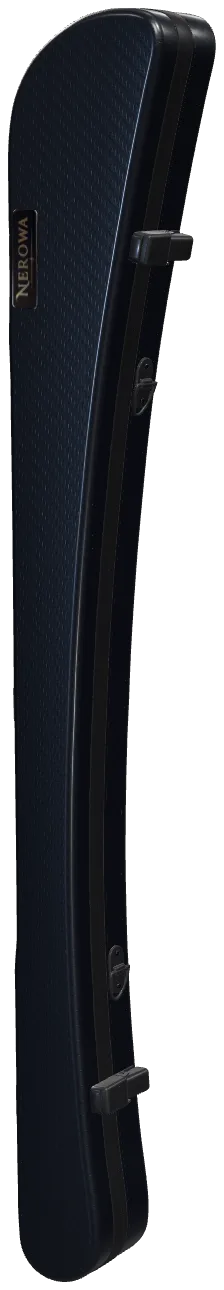
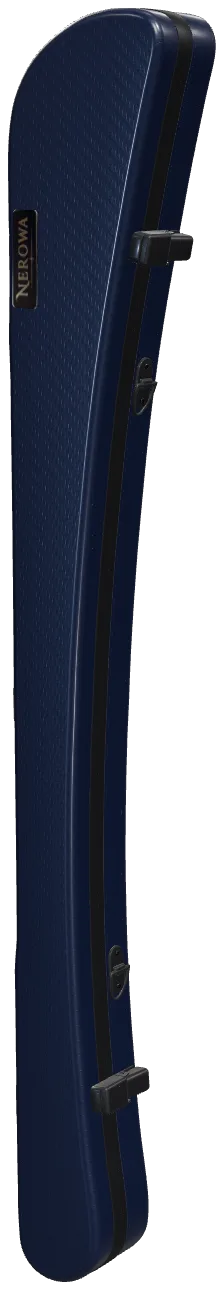
Preguntas que abren siempre, plano limpio y ajustes de texto
La cabecera fija ocupaba ~350 px con el panel de Shop cerrado y se
comia los toques de esa franja: por eso las preguntas fallaban a
veces en el telefono. Las preguntas se pintan de un color de case al
azar con letra legible y la respuesta va a la derecha. El plano de
medidas sale de una vista desde arriba de la cascara real, con
bisagras y cierres. Fuera el logo gigante del pie, "Ships from
Europe", Closed/Open sobre las miniaturas y Midnight Blue calculado.

Claude-Session: https://claude.ai/code/session_01R2JTJbHUrTq7cbAzGjEyWX

diff --git a/src/lib/store/case-outline.ts b/src/lib/store/case-outline.ts
@@ -8,13 +8,16 @@
 
 export const CASE_OUTLINE = {
   /* Caja del dibujo: x de punta a punta, y de borde a borde. */
-  minX: -406.5,
-  maxX: 406.5,
+  minX: -406.3,
+  maxX: 406.4,
   minY: -56.9,
   maxY: 56.9,
-  path: "M404.5 -0.5L400.4 -9.8L396.4 -15.7L392.3 -24.3L388.2 -29.6L384.2 -32.1L380.1 -36.8L376 -41.1L372 -43L367.9 -46.5L363.9 -48.1L359.8 -49.5L355.7 -52L351.7 -52.9L347.6 -53.6L343.5 -54.2L339.5 -54.7L335.4 -55.6L331.3 -56L327.3 -56.2L323.2 -56.3L319.1 -56.4L315.1 -56.4L311 -56.5L306.9 -56.5L302.9 -56.5L298.8 -56.5L294.7 -56.4L290.7 -56.4L286.6 -56.4L282.5 -56.3L278.5 -56.2L274.4 -55.9L270.3 -55.8L266.3 -55.8L262.2 -55.8L258.2 -55.8L254.1 -55.9L250 -56L246 -56L241.9 -56.2L237.8 -56.2L233.8 -56.3L229.7 -56.4L225.6 -56.4L221.6 -56.6L217.5 -56.8L213.4 -56.9L209.4 -56.8L205.3 -56.7L201.2 -56.4L197.2 -56.3L193.1 -56.2L189 -56.1L185 -56L180.9 -55.9L176.8 -55.9L172.8 -55.9L168.7 -55.9L164.6 -55.9L160.6 -55.9L156.5 -55.8L152.5 -55.8L148.4 -55.8L144.3 -55.8L140.3 -55.7L136.2 -55.7L132.1 -55.7L128.1 -55.6L124 -55.6L119.9 -55.6L115.9 -55.5L111.8 -55.5L107.7 -55.5L103.7 -55.5L99.6 -55.5L95.5 -55.5L91.5 -55.4L87.4 -55.4L83.3 -55.4L79.3 -55.4L75.2 -55.4L71.1 -55.4L67.1 -55.3L63 -55.3L58.9 -55.3L54.9 -55.3L50.8 -55.3L46.8 -55.3L42.7 -55.3L38.6 -55.3L34.6 -55.3L30.5 -55.3L26.4 -55.3L22.4 -55.3L18.3 -55.3L14.2 -55.3L10.2 -55.3L6.1 -55.3L2 -55.3L-2 -55.3L-6.1 -55.3L-10.2 -55.3L-14.2 -55.3L-18.3 -55.2L-22.4 -55.2L-26.4 -55.1L-30.5 -55L-34.6 -54.9L-38.6 -54.9L-42.7 -54.9L-46.8 -54.9L-50.8 -54.9L-54.9 -54.8L-58.9 -54.8L-63 -54.8L-67.1 -54.8L-71.1 -54.8L-75.2 -54.8L-79.3 -54.8L-83.3 -54.8L-87.4 -54.7L-91.5 -54.7L-95.5 -54.7L-99.6 -54.7L-103.7 -54.6L-107.7 -54.6L-111.8 -54.6L-115.9 -54.6L-119.9 -54.6L-124 -54.6L-128.1 -54.6L-132.1 -54.6L-136.2 -54.6L-140.3 -54.6L-144.3 -54.5L-148.4 -54.5L-152.5 -54.5L-156.5 -54.5L-160.6 -54.5L-164.6 -54.5L-168.7 -54.5L-172.8 -54.5L-176.8 -54.9L-180.9 -55.2L-185 -55.6L-189 -55.9L-193.1 -56.2L-197.2 -56.3L-201.2 -56.3L-205.3 -56.3L-209.4 -56.3L-213.4 -56.2L-217.5 -56.2L-221.6 -56.2L-225.6 -56.1L-229.7 -56.1L-233.8 -56.1L-237.8 -56.1L-241.9 -56.1L-246 -56.1L-250 -56.1L-254.1 -56.1L-258.2 -56L-262.2 -56L-266.3 -56L-270.3 -55.9L-274.4 -55.9L-278.5 -55.8L-282.5 -55.8L-286.6 -55.8L-290.7 -55.8L-294.7 -55.8L-298.8 -55.8L-302.9 -55.8L-306.9 -55.7L-311 -55.7L-315.1 -55.7L-319.1 -55.7L-323.2 -55.7L-327.3 -55.6L-331.3 -55.6L-335.4 -55.5L-339.5 -55.4L-343.5 -55.4L-347.6 -55.3L-351.7 -55.3L-355.7 -55.4L-359.8 -55.3L-363.9 -55.3L-367.9 -55.1L-372 -54.7L-376 -54.5L-380.1 -54.3L-384.2 -54L-388.2 -52.5L-392.3 -51.1L-396.4 -49.4L-400.4 -44.9L-404.5 -39.4L-404.5 -10.3L-400.4 -4.6L-396.4 0.6L-392.3 2.9L-388.2 6.8L-384.2 8.4L-380.1 10.2L-376 10.7L-372 11L-367.9 11.2L-363.9 11.2L-359.8 10.9L-355.7 10.6L-351.7 10.2L-347.6 9.8L-343.5 9.3L-339.5 8.4L-335.4 7.9L-331.3 7.4L-327.3 6.8L-323.2 5.7L-319.1 5.2L-315.1 4.8L-311 4.3L-306.9 3.9L-302.9 3.1L-298.8 2.8L-294.7 2.4L-290.7 2L-286.6 1.3L-282.5 0.9L-278.5 0.6L-274.4 0.4L-270.3 0.1L-266.3 -0.4L-262.2 -0.7L-258.2 -1L-254.1 -1.3L-250 -2L-246 -2.3L-241.9 -2.6L-237.8 -2.9L-233.8 -3.1L-229.7 -3.6L-225.6 -3.8L-221.6 -4.1L-217.5 -4.3L-213.4 -4.5L-209.4 -4.9L-205.3 -5L-201.2 -5.2L-197.2 -5.4L-193.1 -5.8L-189 -6L-185 -6.1L-180.9 -6.3L-176.8 -6.4L-172.8 -6.7L-168.7 -6.8L-164.6 -6.9L-160.6 -7L-156.5 -7.1L-152.5 -7.2L-148.4 -7.3L-144.3 -7.4L-140.3 -7.5L-136.2 -7.6L-132.1 -7.6L-128.1 -7.7L-124 -7.7L-119.9 -7.7L-115.9 -7.7L-111.8 -7.7L-107.7 -7.6L-103.7 -7.6L-99.6 -7.6L-95.5 -7.6L-91.5 -7.5L-87.4 -7.5L-83.3 -7.3L-79.3 -7.3L-75.2 -7.2L-71.1 -7.1L-67.1 -7.1L-63 -6.9L-58.9 -6.7L-54.9 -6.7L-50.8 -6.5L-46.8 -6.4L-42.7 -6.1L-38.6 -6L-34.6 -5.8L-30.5 -5.6L-26.4 -5.3L-22.4 -5.1L-18.3 -5L-14.2 -4.8L-10.2 -4.7L-6.1 -4.4L-2 -4.2L2 -4.1L6.1 -3.9L10.2 -3.7L14.2 -3.3L18.3 -3.1L22.4 -2.9L26.4 -2.7L30.5 -2.2L34.6 -2L38.6 -1.7L42.7 -1.5L46.8 -1.2L50.8 -0.7L54.9 -0.4L58.9 -0.1L63 0.1L67.1 0.4L71.1 1L75.2 1.3L79.3 1.6L83.3 1.9L87.4 2.6L91.5 3L95.5 3.3L99.6 3.7L103.7 4.1L107.7 4.8L111.8 5.1L115.9 5.5L119.9 5.9L124 6.6L128.1 7L132.1 7.4L136.2 7.7L140.3 8.1L144.3 8.9L148.4 9.3L152.5 9.7L156.5 10.2L160.6 11.1L164.6 11.6L168.7 12L172.8 12.5L176.8 13L180.9 14L185 14.5L189 15L193.1 15.5L197.2 16.6L201.2 17.1L205.3 17.7L209.4 18.3L213.4 19.5L217.5 20.1L221.6 20.7L225.6 21.3L229.7 21.9L233.8 23.2L237.8 23.9L241.9 24.5L246 25.2L250 26.6L254.1 27.2L258.2 27.9L262.2 28.6L266.3 29.9L270.3 30.6L274.4 31.3L278.5 32L282.5 33.4L286.6 34.1L290.7 34.8L294.7 35.5L298.8 36.9L302.9 37.6L306.9 38.4L311 39.1L315.1 40.6L319.1 41.4L323.2 42.1L327.3 42.9L331.3 43.6L335.4 45.2L339.5 46L343.5 46.8L347.6 47.6L351.7 49.2L355.7 50L359.8 50.9L363.9 52.6L367.9 53.5L372 54.4L376 55.3L380.1 56.6L384.2 56.9L388.2 56.7L392.3 56.1L396.4 55L400.4 51.2L404.5 45.6Z",
+  path: "M-406.3 -29.9L-405.8 -33.1L-404.8 -36.6L-403.8 -39.1L-402.1 -42.4L-400.8 -43.9L-400.1 -45.1L-397.3 -47.9L-397.1 -47.9L-395.1 -49.6L-394.3 -49.9L-392.6 -51.1L-391.6 -51.6L-391.1 -51.6L-389.3 -52.6L-388.6 -52.6L-387.6 -53.1L-386.8 -53.1L-386.6 -53.4L-385.8 -53.4L-385.6 -53.6L-384.6 -53.6L-384.3 -53.9L-383.1 -53.9L-382.8 -54.1L-380.3 -54.1L-380.1 -54.4L-376.6 -54.4L-376.3 -54.6L-372.8 -54.6L-372.6 -54.9L-369.1 -54.9L-368.8 -55.1L-364.1 -55.1L-363.8 -55.4L-337.1 -55.4L-336.8 -55.6L-308.6 -55.6L-308.3 -55.9L-264.1 -55.9L-263.8 -56.1L-213.8 -56.1L-213.6 -56.4L-193.8 -56.4L-193.6 -56.1L-189.6 -56.1L-189.3 -55.9L-186.8 -55.9L-186.6 -55.6L-184.3 -55.6L-184.1 -55.4L-182.1 -55.4L-181.8 -55.1L-179.6 -55.1L-179.3 -54.9L-176.3 -54.9L-176.1 -54.6L-165.8 -54.6L-165.3 -54.4L-165.1 -54.6L-89.6 -54.6L-89.3 -54.9L-31.1 -54.9L-30.8 -55.1L-18.1 -55.1L-17.8 -55.4L101.7 -55.4L101.9 -55.6L139.2 -55.6L139.4 -55.9L183.9 -55.9L184.2 -56.1L195.7 -56.1L195.9 -56.4L202.4 -56.4L202.7 -56.6L207.7 -56.6L207.9 -56.9L217.7 -56.9L217.9 -56.6L224.9 -56.6L225.2 -56.4L237.2 -56.4L237.4 -56.1L249.2 -56.1L249.4 -55.9L274.4 -55.9L274.7 -56.1L280.2 -56.1L280.4 -56.4L325.7 -56.4L325.9 -56.1L330.2 -56.1L330.4 -55.9L332.7 -55.9L332.9 -55.6L334.9 -55.6L335.2 -55.4L337.2 -55.4L337.4 -55.1L340.7 -54.9L340.9 -54.6L342.2 -54.6L342.4 -54.4L343.7 -54.4L343.9 -54.1L345.2 -54.1L345.4 -53.9L346.4 -53.9L346.7 -53.6L348.9 -53.4L349.2 -53.1L350.9 -52.9L351.9 -52.4L352.7 -52.4L352.9 -52.1L353.4 -52.1L353.7 -51.9L354.2 -51.9L354.4 -51.6L355.7 -51.4L356.4 -50.9L356.9 -50.9L358.9 -49.9L359.4 -49.9L366.4 -46.4L366.9 -45.9L367.7 -45.6L368.2 -45.1L370.2 -44.1L370.7 -43.6L370.9 -43.6L371.4 -43.1L372.4 -42.6L373.2 -41.9L374.2 -41.4L376.2 -39.6L376.4 -39.6L380.7 -35.6L380.9 -35.6L383.2 -33.4L383.4 -32.9L386.9 -29.1L390.7 -24.1L394.7 -17.9L398.9 -9.9L401.7 -3.6L403.4 1.6L404.4 5.6L405.2 9.6L406.2 16.1L406.4 18.9L406.4 30.1L405.9 36.9L405.4 39.9L404.7 42.9L403.7 45.9L402.2 48.9L400.9 50.6L398.9 52.6L398.7 52.6L397.7 53.6L396.9 53.9L396.4 54.4L394.4 55.4L393.9 55.4L393.7 55.6L393.2 55.6L392.2 56.1L391.4 56.1L391.2 56.4L390.2 56.4L389.9 56.6L387.9 56.6L387.7 56.9L384.4 56.9L384.2 56.6L381.7 56.6L381.4 56.4L380.4 56.4L380.2 56.1L378.9 56.1L378.7 55.9L377.9 55.9L377.7 55.6L376.7 55.6L376.4 55.4L375.7 55.4L375.4 55.1L374.7 55.1L374.4 54.9L372.7 54.6L371.7 54.1L369.9 53.9L368.9 53.4L368.2 53.4L367.2 52.9L366.4 52.9L365.4 52.4L363.7 52.1L362.7 51.6L361.9 51.6L361.7 51.4L359.9 51.1L358.9 50.6L358.2 50.6L357.9 50.4L357.2 50.4L356.9 50.1L356.2 50.1L355.9 49.9L355.2 49.9L354.9 49.6L354.2 49.6L353.9 49.4L353.2 49.4L352.9 49.1L352.2 49.1L351.9 48.9L351.2 48.9L350.9 48.6L350.2 48.6L349.9 48.4L349.2 48.4L348.9 48.1L348.2 48.1L347.9 47.9L347.2 47.9L346.9 47.6L346.2 47.6L345.9 47.4L344.9 47.4L344.7 47.1L343.9 47.1L343.7 46.9L342.9 46.9L342.7 46.6L341.9 46.6L341.7 46.4L340.9 46.4L340.7 46.1L339.9 46.1L339.7 45.9L338.9 45.9L338.7 45.6L337.9 45.6L337.7 45.4L336.9 45.4L336.7 45.1L335.9 45.1L335.7 44.9L334.9 44.9L334.7 44.6L333.9 44.6L333.7 44.4L332.9 44.4L332.7 44.1L331.7 44.1L331.4 43.9L330.7 43.9L330.4 43.6L329.7 43.6L329.4 43.4L328.7 43.4L328.4 43.1L327.7 43.1L327.4 42.9L326.7 42.9L326.4 42.6L325.4 42.6L325.2 42.4L324.4 42.4L324.2 42.1L323.4 42.1L323.2 41.9L322.2 41.9L321.9 41.6L321.2 41.6L320.9 41.4L320.2 41.4L319.9 41.1L318.9 41.1L318.7 40.9L317.9 40.9L317.7 40.6L316.9 40.6L316.7 40.4L315.7 40.4L315.4 40.1L314.7 40.1L314.4 39.9L313.7 39.9L313.4 39.6L312.4 39.6L312.2 39.4L311.4 39.4L311.2 39.1L310.4 39.1L310.2 38.9L309.2 38.9L308.9 38.6L308.2 38.6L307.9 38.4L306.9 38.4L306.7 38.1L305.9 38.1L305.7 37.9L304.7 37.9L304.4 37.6L303.7 37.6L303.4 37.4L301.2 37.1L300.9 36.9L300.2 36.9L299.9 36.6L298.9 36.6L298.7 36.4L296.4 36.1L296.2 35.9L295.4 35.9L295.2 35.6L292.9 35.4L292.7 35.1L291.9 35.1L291.7 34.9L289.4 34.6L289.2 34.4L288.4 34.4L288.2 34.1L285.9 33.9L285.7 33.6L284.9 33.6L284.7 33.4L283.7 33.4L283.4 33.1L282.7 33.1L282.4 32.9L281.4 32.9L281.2 32.6L280.4 32.6L280.2 32.4L277.9 32.1L277.7 31.9L276.9 31.9L276.7 31.6L275.7 31.6L275.4 31.4L274.7 31.4L274.4 31.1L273.4 31.1L273.2 30.9L272.2 30.9L271.9 30.6L269.7 30.4L269.4 30.1L268.7 30.1L268.4 29.9L267.4 29.9L267.2 29.6L266.2 29.6L265.9 29.4L264.9 29.4L264.7 29.1L263.7 29.1L263.4 28.9L262.4 28.9L262.2 28.6L261.2 28.6L260.9 28.4L259.9 28.4L259.7 28.1L257.4 27.9L257.2 27.6L256.4 27.6L256.2 27.4L255.2 27.4L254.9 27.1L253.9 27.1L253.7 26.9L252.7 26.9L252.4 26.6L250.2 26.4L249.9 26.1L249.2 26.1L248.9 25.9L247.9 25.9L247.7 25.6L246.7 25.6L246.4 25.4L245.4 25.4L245.2 25.1L242.9 24.9L242.7 24.6L241.9 24.6L241.7 24.4L240.7 24.4L240.4 24.1L239.4 24.1L239.2 23.9L238.2 23.9L237.9 23.6L236.9 23.6L236.7 23.4L235.7 23.4L235.4 23.1L234.4 23.1L234.2 22.9L233.2 22.9L232.9 22.6L231.9 22.6L231.7 22.4L230.4 22.4L230.2 22.1L229.2 22.1L228.9 21.9L227.9 21.9L227.7 21.6L226.7 21.6L226.4 21.4L225.2 21.4L224.9 21.1L223.9 21.1L223.7 20.9L222.7 20.9L222.4 20.6L221.2 20.6L220.9 20.4L219.9 20.4L219.7 20.1L218.4 20.1L218.2 19.9L217.2 19.9L216.9 19.6L215.7 19.6L215.4 19.4L214.4 19.4L214.2 19.1L212.9 19.1L212.7 18.9L211.7 18.9L211.4 18.6L210.2 18.6L209.9 18.4L208.9 18.4L208.7 18.1L205.9 17.9L205.7 17.6L204.7 17.6L204.4 17.4L203.2 17.4L202.9 17.1L201.7 17.1L201.4 16.9L200.2 16.9L199.9 16.6L198.7 16.6L198.4 16.4L197.2 16.4L196.9 16.1L195.7 16.1L195.4 15.9L193.9 15.9L193.7 15.6L192.4 15.6L192.2 15.4L190.9 15.4L190.7 15.1L189.2 15.1L188.9 14.9L187.7 14.9L187.4 14.6L185.9 14.6L185.7 14.4L184.4 14.4L184.2 14.1L182.7 14.1L182.4 13.9L181.2 13.9L180.9 13.6L179.4 13.6L179.2 13.4L177.7 13.4L177.4 13.1L174.2 12.9L173.9 12.6L172.7 12.6L172.4 12.4L170.9 12.4L170.7 12.1L169.2 12.1L168.9 11.9L167.4 11.9L167.2 11.6L165.7 11.6L165.4 11.4L163.9 11.4L163.7 11.1L162.2 11.1L161.9 10.9L160.4 10.9L160.2 10.6L158.4 10.6L158.2 10.4L156.7 10.4L156.4 10.1L154.7 10.1L154.4 9.9L152.9 9.9L152.7 9.6L150.9 9.6L150.7 9.4L148.9 9.4L148.7 9.1L146.9 9.1L146.7 8.9L144.9 8.9L144.7 8.6L142.9 8.6L142.7 8.4L140.7 8.4L140.4 8.1L138.4 8.1L138.2 7.9L136.2 7.9L135.9 7.6L133.9 7.6L133.7 7.4L131.7 7.4L131.4 7.1L129.7 7.1L129.4 6.9L127.4 6.9L127.2 6.6L125.2 6.6L124.9 6.4L122.9 6.4L122.7 6.1L120.4 6.1L120.2 5.9L118.2 5.9L117.9 5.6L116.2 5.6L115.9 5.4L113.9 5.4L113.7 5.1L111.7 5.1L111.4 4.9L109.2 4.9L108.9 4.6L106.9 4.6L106.7 4.4L104.7 4.4L104.4 4.1L102.2 4.1L101.9 3.9L97.7 3.6L97.4 3.4L95.2 3.4L94.9 3.1L92.9 3.1L92.7 2.9L90.4 2.9L90.2 2.6L88.2 2.6L87.9 2.4L85.7 2.4L85.4 2.1L83.4 2.1L83.2 1.9L80.7 1.9L80.4 1.6L78.2 1.6L77.9 1.4L75.7 1.4L75.4 1.1L72.9 1.1L72.7 0.9L70.2 0.9L69.9 0.6L67.2 0.6L66.9 0.4L64.2 0.4L63.9 0.1L58.2 -0.1L57.9 -0.4L54.9 -0.4L54.7 -0.6L51.9 -0.6L51.7 -0.9L48.7 -0.9L48.4 -1.1L45.4 -1.1L45.2 -1.4L42.2 -1.4L41.9 -1.6L38.9 -1.6L38.7 -1.9L35.4 -1.9L35.2 -2.1L32.2 -2.1L31.9 -2.4L28.7 -2.4L28.4 -2.6L24.9 -2.6L24.7 -2.9L21.2 -2.9L20.9 -3.1L17.4 -3.1L17.2 -3.4L13.4 -3.4L13.2 -3.6L9.2 -3.6L8.9 -3.9L4.4 -3.9L4.2 -4.1L-1.1 -4.1L-1.3 -4.4L-6.3 -4.4L-6.6 -4.6L-12.1 -4.6L-12.3 -4.9L-18.3 -4.9L-18.6 -5.1L-23.8 -5.1L-24.1 -5.4L-28.8 -5.4L-29.1 -5.6L-33.6 -5.6L-33.8 -5.9L-38.1 -5.9L-38.3 -6.1L-43.3 -6.1L-43.6 -6.4L-49.3 -6.4L-49.6 -6.6L-57.3 -6.6L-57.6 -6.9L-65.6 -6.9L-65.8 -7.1L-75.3 -7.1L-75.6 -7.4L-89.8 -7.4L-90.1 -7.6L-140.6 -7.6L-140.8 -7.4L-151.6 -7.4L-151.8 -7.1L-161.3 -7.1L-161.6 -6.9L-169.6 -6.9L-169.8 -6.6L-176.6 -6.6L-176.8 -6.4L-182.8 -6.4L-183.1 -6.1L-188.1 -6.1L-188.3 -5.9L-192.8 -5.9L-193.1 -5.6L-197.1 -5.6L-197.3 -5.4L-201.3 -5.4L-201.6 -5.1L-206.3 -5.1L-206.6 -4.9L-211.1 -4.9L-211.3 -4.6L-215.6 -4.6L-215.8 -4.4L-219.6 -4.4L-219.8 -4.1L-223.3 -4.1L-223.6 -3.9L-226.8 -3.9L-227.1 -3.6L-230.3 -3.6L-230.6 -3.4L-233.8 -3.4L-234.1 -3.1L-237.1 -3.1L-237.3 -2.9L-240.1 -2.9L-240.3 -2.6L-243.1 -2.6L-243.3 -2.4L-245.8 -2.4L-246.1 -2.1L-248.3 -2.1L-248.6 -1.9L-250.8 -1.9L-251.1 -1.6L-253.6 -1.6L-253.8 -1.4L-256.1 -1.4L-256.3 -1.1L-258.6 -1.1L-258.8 -0.9L-261.3 -0.9L-261.6 -0.6L-264.1 -0.6L-264.3 -0.4L-267.1 -0.4L-267.3 -0.1L-270.6 -0.1L-270.8 0.1L-274.1 0.1L-274.3 0.4L-277.3 0.4L-277.6 0.6L-280.3 0.6L-280.6 0.9L-285.3 1.1L-285.6 1.4L-287.6 1.4L-287.8 1.6L-289.6 1.6L-289.8 1.9L-291.8 1.9L-292.1 2.1L-294.1 2.1L-294.3 2.4L-296.3 2.4L-296.6 2.6L-298.6 2.6L-298.8 2.9L-300.8 2.9L-301.1 3.1L-303.1 3.1L-303.3 3.4L-305.3 3.4L-305.6 3.6L-307.6 3.6L-307.8 3.9L-309.6 3.9L-309.8 4.1L-313.6 4.4L-313.8 4.6L-315.3 4.6L-315.6 4.9L-317.1 4.9L-317.3 5.1L-319.1 5.1L-319.3 5.4L-320.6 5.4L-320.8 5.6L-322.3 5.6L-322.6 5.9L-323.8 5.9L-324.1 6.1L-325.3 6.1L-325.6 6.4L-326.8 6.4L-327.1 6.6L-328.3 6.6L-328.6 6.9L-329.8 6.9L-330.1 7.1L-331.3 7.1L-331.6 7.4L-332.8 7.4L-333.1 7.6L-334.6 7.6L-334.8 7.9L-336.3 7.9L-336.6 8.1L-337.8 8.1L-338.1 8.4L-339.6 8.4L-339.8 8.6L-341.3 8.6L-341.6 8.9L-343.1 8.9L-343.3 9.1L-344.8 9.1L-345.1 9.4L-346.6 9.4L-346.8 9.6L-348.6 9.6L-348.8 9.9L-350.3 9.9L-350.6 10.1L-352.6 10.1L-352.8 10.4L-354.6 10.4L-354.8 10.6L-357.3 10.6L-357.6 10.9L-360.6 10.9L-360.8 11.1L-371.8 11.1L-372.1 10.9L-374.3 10.9L-374.6 10.6L-376.3 10.6L-376.6 10.4L-378.1 10.4L-378.3 10.1L-379.3 10.1L-379.6 9.9L-381.3 9.6L-381.6 9.4L-382.8 9.1L-383.6 8.6L-384.1 8.6L-385.6 7.9L-386.1 7.4L-387.3 6.9L-387.8 6.4L-388.1 6.4L-388.6 5.9L-388.8 5.9L-389.3 5.4L-390.3 4.9L-392.8 2.6L-393.1 2.6L-396.1 -0.4L-399.1 -4.1L-401.1 -7.1L-403.3 -11.6L-405.1 -16.4L-405.8 -19.4L-406.3 -22.9Z",
   /* [x, borde de arriba, borde de abajo] por tramo, de izquierda a derecha. */
-  samples: [[-404.5,-39.4,-10.3],[-400.4,-44.9,-4.6],[-396.4,-49.4,0.6],[-392.3,-51.1,2.9],[-388.2,-52.5,6.8],[-384.2,-54,8.4],[-380.1,-54.3,10.2],[-376,-54.5,10.7],[-372,-54.7,11],[-367.9,-55.1,11.2],[-363.9,-55.3,11.2],[-359.8,-55.3,10.9],[-355.7,-55.4,10.6],[-351.7,-55.3,10.2],[-347.6,-55.3,9.8],[-343.5,-55.4,9.3],[-339.5,-55.4,8.4],[-335.4,-55.5,7.9],[-331.3,-55.6,7.4],[-327.3,-55.6,6.8],[-323.2,-55.7,5.7],[-319.1,-55.7,5.2],[-315.1,-55.7,4.8],[-311,-55.7,4.3],[-306.9,-55.7,3.9],[-302.9,-55.8,3.1],[-298.8,-55.8,2.8],[-294.7,-55.8,2.4],[-290.7,-55.8,2],[-286.6,-55.8,1.3],[-282.5,-55.8,0.9],[-278.5,-55.8,0.6],[-274.4,-55.9,0.4],[-270.3,-55.9,0.1],[-266.3,-56,-0.4],[-262.2,-56,-0.7],[-258.2,-56,-1],[-254.1,-56.1,-1.3],[-250,-56.1,-2],[-246,-56.1,-2.3],[-241.9,-56.1,-2.6],[-237.8,-56.1,-2.9],[-233.8,-56.1,-3.1],[-229.7,-56.1,-3.6],[-225.6,-56.1,-3.8],[-221.6,-56.2,-4.1],[-217.5,-56.2,-4.3],[-213.4,-56.2,-4.5],[-209.4,-56.3,-4.9],[-205.3,-56.3,-5],[-201.2,-56.3,-5.2],[-197.2,-56.3,-5.4],[-193.1,-56.2,-5.8],[-189,-55.9,-6],[-185,-55.6,-6.1],[-180.9,-55.2,-6.3],[-176.8,-54.9,-6.4],[-172.8,-54.5,-6.7],[-168.7,-54.5,-6.8],[-164.6,-54.5,-6.9],[-160.6,-54.5,-7],[-156.5,-54.5,-7.1],[-152.5,-54.5,-7.2],[-148.4,-54.5,-7.3],[-144.3,-54.5,-7.4],[-140.3,-54.6,-7.5],[-136.2,-54.6,-7.6],[-132.1,-54.6,-7.6],[-128.1,-54.6,-7.7],[-124,-54.6,-7.7],[-119.9,-54.6,-7.7],[-115.9,-54.6,-7.7],[-111.8,-54.6,-7.7],[-107.7,-54.6,-7.6],[-103.7,-54.6,-7.6],[-99.6,-54.7,-7.6],[-95.5,-54.7,-7.6],[-91.5,-54.7,-7.5],[-87.4,-54.7,-7.5],[-83.3,-54.8,-7.3],[-79.3,-54.8,-7.3],[-75.2,-54.8,-7.2],[-71.1,-54.8,-7.1],[-67.1,-54.8,-7.1],[-63,-54.8,-6.9],[-58.9,-54.8,-6.7],[-54.9,-54.8,-6.7],[-50.8,-54.9,-6.5],[-46.8,-54.9,-6.4],[-42.7,-54.9,-6.1],[-38.6,-54.9,-6],[-34.6,-54.9,-5.8],[-30.5,-55,-5.6],[-26.4,-55.1,-5.3],[-22.4,-55.2,-5.1],[-18.3,-55.2,-5],[-14.2,-55.3,-4.8],[-10.2,-55.3,-4.7],[-6.1,-55.3,-4.4],[-2,-55.3,-4.2],[2,-55.3,-4.1],[6.1,-55.3,-3.9],[10.2,-55.3,-3.7],[14.2,-55.3,-3.3],[18.3,-55.3,-3.1],[22.4,-55.3,-2.9],[26.4,-55.3,-2.7],[30.5,-55.3,-2.2],[34.6,-55.3,-2],[38.6,-55.3,-1.7],[42.7,-55.3,-1.5],[46.8,-55.3,-1.2],[50.8,-55.3,-0.7],[54.9,-55.3,-0.4],[58.9,-55.3,-0.1],[63,-55.3,0.1],[67.1,-55.3,0.4],[71.1,-55.4,1],[75.2,-55.4,1.3],[79.3,-55.4,1.6],[83.3,-55.4,1.9],[87.4,-55.4,2.6],[91.5,-55.4,3],[95.5,-55.5,3.3],[99.6,-55.5,3.7],[103.7,-55.5,4.1],[107.7,-55.5,4.8],[111.8,-55.5,5.1],[115.9,-55.5,5.5],[119.9,-55.6,5.9],[124,-55.6,6.6],[128.1,-55.6,7],[132.1,-55.7,7.4],[136.2,-55.7,7.7],[140.3,-55.7,8.1],[144.3,-55.8,8.9],[148.4,-55.8,9.3],[152.5,-55.8,9.7],[156.5,-55.8,10.2],[160.6,-55.9,11.1],[164.6,-55.9,11.6],[168.7,-55.9,12],[172.8,-55.9,12.5],[176.8,-55.9,13],[180.9,-55.9,14],[185,-56,14.5],[189,-56.1,15],[193.1,-56.2,15.5],[197.2,-56.3,16.6],[201.2,-56.4,17.1],[205.3,-56.7,17.7],[209.4,-56.8,18.3],[213.4,-56.9,19.5],[217.5,-56.8,20.1],[221.6,-56.6,20.7],[225.6,-56.4,21.3],[229.7,-56.4,21.9],[233.8,-56.3,23.2],[237.8,-56.2,23.9],[241.9,-56.2,24.5],[246,-56,25.2],[250,-56,26.6],[254.1,-55.9,27.2],[258.2,-55.8,27.9],[262.2,-55.8,28.6],[266.3,-55.8,29.9],[270.3,-55.8,30.6],[274.4,-55.9,31.3],[278.5,-56.2,32],[282.5,-56.3,33.4],[286.6,-56.4,34.1],[290.7,-56.4,34.8],[294.7,-56.4,35.5],[298.8,-56.5,36.9],[302.9,-56.5,37.6],[306.9,-56.5,38.4],[311,-56.5,39.1],[315.1,-56.4,40.6],[319.1,-56.4,41.4],[323.2,-56.3,42.1],[327.3,-56.2,42.9],[331.3,-56,43.6],[335.4,-55.6,45.2],[339.5,-54.7,46],[343.5,-54.2,46.8],[347.6,-53.6,47.6],[351.7,-52.9,49.2],[355.7,-52,50],[359.8,-49.5,50.9],[363.9,-48.1,52.6],[367.9,-46.5,53.5],[372,-43,54.4],[376,-41.1,55.3],[380.1,-36.8,56.6],[384.2,-32.1,56.9],[388.2,-29.6,56.7],[392.3,-24.3,56.1],[396.4,-15.7,55],[400.4,-9.8,51.2],[404.5,-0.5,45.6]] as ReadonlyArray<readonly [number, number, number]>,
+  samples: [[-406.3,-29.9,-22.9],[-402.3,-41.9,-9.6],[-398.3,-46.9,-3.1],[-394.3,-49.9,1.4],[-390.3,-52.1,4.9],[-386.3,-53.4,7.4],[-382.3,-54.1,9.1],[-378.3,-54.4,10.1],[-374.3,-54.6,10.9],[-370.3,-54.9,11.1],[-366.3,-55.1,11.1],[-362.3,-55.4,11.1],[-358.3,-55.4,10.9],[-354.3,-55.4,10.4],[-350.3,-55.4,9.9],[-346.3,-55.4,9.4],[-342.3,-55.4,8.9],[-338.3,-55.4,8.4],[-334.3,-55.6,7.6],[-330.3,-55.6,7.1],[-326.3,-55.6,6.4],[-322.3,-55.6,5.6],[-318.3,-55.6,5.1],[-314.3,-55.6,4.6],[-310.3,-55.6,4.1],[-306.3,-55.9,3.6],[-302.3,-55.9,3.1],[-298.3,-55.9,2.6],[-294.3,-55.9,2.4],[-290.3,-55.9,1.9],[-286.3,-55.9,1.4],[-282.3,-55.9,0.9],[-278.3,-55.9,0.6],[-274.3,-55.9,0.4],[-270.3,-55.9,-0.1],[-266.3,-55.9,-0.4],[-262.3,-56.1,-0.6],[-258.3,-56.1,-1.1],[-254.3,-56.1,-1.4],[-250.3,-56.1,-1.9],[-246.3,-56.1,-2.1],[-242.3,-56.1,-2.6],[-238.3,-56.1,-2.9],[-234.3,-56.1,-3.1],[-230.3,-56.1,-3.6],[-226.3,-56.1,-3.9],[-222.3,-56.1,-4.1],[-218.3,-56.1,-4.4],[-214.3,-56.1,-4.6],[-210.3,-56.4,-4.9],[-206.3,-56.4,-5.1],[-202.3,-56.4,-5.1],[-198.3,-56.4,-5.4],[-194.3,-56.4,-5.6],[-190.3,-56.1,-5.9],[-186.3,-55.6,-6.1],[-182.3,-55.4,-6.4],[-178.3,-54.9,-6.4],[-174.3,-54.6,-6.6],[-170.3,-54.6,-6.6],[-166.3,-54.6,-6.9],[-162.3,-54.6,-6.9],[-158.3,-54.6,-7.1],[-154.3,-54.6,-7.1],[-150.3,-54.6,-7.4],[-146.3,-54.6,-7.4],[-142.3,-54.6,-7.4],[-138.3,-54.6,-7.6],[-134.3,-54.6,-7.6],[-130.3,-54.6,-7.6],[-126.3,-54.6,-7.6],[-122.3,-54.6,-7.6],[-118.3,-54.6,-7.6],[-114.3,-54.6,-7.6],[-110.3,-54.6,-7.6],[-106.3,-54.6,-7.6],[-102.3,-54.6,-7.6],[-98.3,-54.6,-7.6],[-94.3,-54.6,-7.6],[-90.3,-54.6,-7.6],[-86.3,-54.9,-7.4],[-82.3,-54.9,-7.4],[-78.3,-54.9,-7.4],[-74.3,-54.9,-7.1],[-70.3,-54.9,-7.1],[-66.3,-54.9,-7.1],[-62.3,-54.9,-6.9],[-58.3,-54.9,-6.9],[-54.3,-54.9,-6.6],[-50.3,-54.9,-6.6],[-46.3,-54.9,-6.4],[-42.3,-54.9,-6.1],[-38.3,-54.9,-6.1],[-34.3,-54.9,-5.9],[-30.3,-55.1,-5.6],[-26.3,-55.1,-5.4],[-22.3,-55.1,-5.1],[-18.3,-55.1,-4.9],[-14.3,-55.4,-4.9],[-10.3,-55.4,-4.6],[-6.3,-55.4,-4.4],[-2.3,-55.4,-4.4],[1.7,-55.4,-4.1],[5.7,-55.4,-3.9],[9.7,-55.4,-3.6],[13.7,-55.4,-3.4],[17.7,-55.4,-3.1],[21.7,-55.4,-2.9],[25.7,-55.4,-2.6],[29.7,-55.4,-2.4],[33.7,-55.4,-2.1],[37.7,-55.4,-1.9],[41.7,-55.4,-1.6],[45.7,-55.4,-1.1],[49.7,-55.4,-0.9],[53.7,-55.4,-0.6],[57.7,-55.4,-0.4],[61.7,-55.4,0.1],[65.7,-55.4,0.4],[69.7,-55.4,0.6],[73.7,-55.4,1.1],[77.7,-55.4,1.4],[81.7,-55.4,1.9],[85.7,-55.4,2.4],[89.7,-55.4,2.6],[93.7,-55.4,3.1],[97.7,-55.4,3.6],[101.7,-55.4,3.9],[105.7,-55.6,4.4],[109.7,-55.6,4.9],[113.7,-55.6,5.1],[117.7,-55.6,5.6],[121.7,-55.6,6.1],[125.7,-55.6,6.6],[129.7,-55.6,7.1],[133.7,-55.6,7.4],[137.7,-55.6,7.9],[141.7,-55.9,8.4],[145.7,-55.9,8.9],[149.7,-55.9,9.4],[153.7,-55.9,9.9],[157.7,-55.9,10.4],[161.7,-55.9,10.9],[165.7,-55.9,11.6],[169.7,-55.9,12.1],[173.7,-55.9,12.6],[177.7,-55.9,13.4],[181.7,-55.9,13.9],[185.7,-56.1,14.4],[189.7,-56.1,15.1],[193.7,-56.1,15.6],[197.7,-56.4,16.4],[201.7,-56.4,17.1],[205.7,-56.6,17.6],[209.7,-56.9,18.4],[213.7,-56.9,19.1],[217.7,-56.9,19.9],[221.7,-56.6,20.6],[225.7,-56.4,21.4],[229.7,-56.4,22.1],[233.7,-56.4,22.9],[237.7,-56.1,23.6],[241.7,-56.1,24.4],[245.7,-56.1,25.4],[249.7,-55.9,26.1],[253.7,-55.9,26.9],[257.7,-55.9,27.9],[261.7,-55.9,28.6],[265.7,-55.9,29.4],[269.7,-55.9,30.4],[273.7,-55.9,31.1],[277.7,-56.1,31.9],[281.7,-56.4,32.9],[285.7,-56.4,33.6],[289.7,-56.4,34.6],[293.7,-56.4,35.4],[297.7,-56.4,36.4],[301.7,-56.4,37.1],[305.7,-56.4,37.9],[309.7,-56.4,38.9],[313.7,-56.4,39.9],[317.7,-56.4,40.6],[321.7,-56.4,41.6],[325.7,-56.4,42.6],[329.7,-56.1,43.6],[333.7,-55.6,44.4],[337.7,-55.1,45.4],[341.7,-54.6,46.4],[345.7,-53.9,47.4],[349.7,-53.1,48.4],[353.7,-51.9,49.4],[357.7,-50.4,50.4],[361.7,-48.6,51.4],[365.7,-46.6,52.6],[369.7,-44.4,53.6],[373.7,-41.6,54.9],[377.7,-38.4,55.6],[381.7,-34.9,56.6],[385.7,-30.4,56.9],[389.7,-25.4,56.6],[393.7,-19.4,55.6],[397.7,-12.4,53.6],[401.7,-3.6,49.6],[405.7,12.6,38.4]] as ReadonlyArray<readonly [number, number, number]>,
+  /* Posicion a lo largo de cada bisagra (borde recto) y cada cierre (borde curvo). */
+  hinges: [264,-20,-287] as ReadonlyArray<number>,
+  latches: [269,-276] as ReadonlyArray<number>,
 } as const;
 
 /* Los dos bordes del case en una x, en milimetros. */

diff --git a/src/components/shop/sections.tsx b/src/components/shop/sections.tsx
@@ -19,6 +19,7 @@ import { useCallback, useEffect, useId, useRef, useState } from "react";
 
 import { CONTACT_EMAIL, LOGO } from "@/lib/brand";
 import { COLORS, PRICE_EUR, colorById } from "@/lib/store/catalog";
+import { contrastRatio } from "@/lib/store/palette";
 import { INSIDE, VOICES, availabilityShort } from "@/lib/shop/content";
 import { FAQ } from "@/components/store/store-sections";
 import { useStore } from "@/components/store/store-context";
@@ -67,7 +68,7 @@ export function Catalogue() {
           <span className="t-figures">{COLORS.length}</span> colours
         </h2>
         <p className="sh-serif sh-serif-lg text-pretty lg:col-span-7 lg:col-start-5">
-          One case in fourteen colours, two bows inside. Shipped from Vilnius, at your door in days.
+          One case in fourteen colours, two bows inside. Shipped from Europe.
         </p>
       </div>
 
@@ -353,6 +354,32 @@ export function Answers() {
   );
 }
 
+/*
+  Un color de case al azar para el renglon, sin repetir el ultimo que salio. Se
+  elige siempre en un manejador de evento, nunca en el render: el servidor y el
+  navegador sacarian numeros distintos y React rechaza la diferencia.
+*/
+let lastTint = "";
+function randomTint(): string {
+  const pool = COLORS.filter((c) => c.hex !== lastTint);
+  lastTint = pool[Math.floor(Math.random() * pool.length)].hex;
+  return lastTint;
+}
+
+const TINT_INK = "#0b0b0b";
+const TINT_PAPER = "#f7f7f5";
+
+/* La letra sobre el color: la que mas contraste saque, medida y no a ojo. */
+function inkOn(hex: string): string {
+  return contrastRatio(hex, TINT_INK) >= contrastRatio(hex, TINT_PAPER) ? TINT_INK : TINT_PAPER;
+}
+
+/*
+  Cada pregunta se pinta entera de un color de case al azar y la letra se da
+  vuelta para leerse. En escritorio se pinta al pasar el raton; en telefono, que
+  no tiene raton, al abrirla. Abierta, se queda con su color; el color que se
+  ve al hacer clic es el mismo que se queda, sin saltar a otro.
+*/
 function AnswerRow({
   question,
   answer,
@@ -365,12 +392,38 @@ function AnswerRow({
   onToggle: () => void;
 }) {
   const panelId = useId();
+  const [hoverTint, setHoverTint] = useState<string | null>(null);
+  const [openTint, setOpenTint] = useState<string | null>(null);
+
+  const tint = open ? openTint : hoverTint;
+  const ink = tint ? inkOn(tint) : undefined;
+
+  const toggle = () => {
+    if (!open) setOpenTint(hoverTint ?? randomTint());
+    onToggle();
+  };
 
   return (
-    <li className="border-b border-black/12">
+    <li
+      onPointerEnter={(event) => {
+        /* Solo con raton de verdad. Un telefono no tiene "pasar por encima", y
+           algunos navegadores mandan eventos de raton sinteticos al hacer
+           scroll; sin esta guarda, una pregunta cerrada se quedaba pintada. */
+        if (event.pointerType === "mouse" && window.matchMedia("(hover: hover)").matches) {
+          setHoverTint(randomTint());
+        }
+      }}
+      onPointerLeave={(event) => {
+        if (event.pointerType === "mouse") setHoverTint(null);
+      }}
+      style={{ background: tint ?? undefined, color: ink }}
+      className={`-mx-4 border-b px-4 transition-[background-color,color,border-color] duration-300 lg:-mx-5 lg:px-5 ${
+        tint ? "border-transparent" : "border-black/12"
+      }`}
+    >
       <button
         type="button"
-        onClick={onToggle}
+        onClick={toggle}
         aria-expanded={open}
         aria-controls={panelId}
         className="sh-focus grid w-full grid-cols-[1fr_auto] items-start gap-6 py-5 text-left lg:grid-cols-12"
@@ -380,7 +433,8 @@ function AnswerRow({
             acostarse y la cruz queda en signo menos. */}
         <span
           aria-hidden
-          className="relative h-10 w-10 shrink-0 border border-black/15 lg:col-start-12 lg:justify-self-end"
+          className="relative h-10 w-10 shrink-0 border lg:col-start-12 lg:justify-self-end"
+          style={{ borderColor: "color-mix(in srgb, currentColor 25%, transparent)" }}
         >
           <span className="absolute left-1/2 top-1/2 h-px w-3.5 -translate-x-1/2 -translate-y-1/2 bg-current" />
           <span
@@ -396,8 +450,10 @@ function AnswerRow({
           open ? "grid-rows-[1fr] opacity-100" : "grid-rows-[0fr] opacity-0"
         }`}
       >
+        {/* La respuesta va a la derecha, en el bloque que termina en el
+            cuadrado de la cruz. En telefono, a lo ancho. */}
         <div className="overflow-hidden lg:grid lg:grid-cols-12">
-          <p className="sh-body max-w-[60ch] pb-6 pr-12 opacity-75 lg:col-span-5 lg:col-start-7 lg:pr-0">
+          <p className="sh-body max-w-[60ch] pb-6 pr-12 lg:col-span-5 lg:col-start-8 lg:pr-0">
             {answer}
           </p>
         </div>
@@ -409,10 +465,9 @@ function AnswerRow({
 /* ================================================================== el pie */
 
 /*
-  La lista de correo con el campo gigante, y despues el pie: columnas de enlaces
-  y el logo a todo el ancho. En la referencia el pie es claro con el logo negro;
-  aqui es negro con el logo en su dorado, que es como se ve Nerowa en la pagina
-  de espera.
+  La lista de correo con el campo gigante, y despues el pie: el logo chico en su
+  dorado y las columnas de enlaces, sobre negro. El logo gigante de la referencia
+  se quito.
 
   Sin redes sociales, por norma del proyecto. Las paginas de envios,
   devoluciones y legales todavia no existen: van a las preguntas, que es donde
@@ -497,19 +552,11 @@ export function ShopFooter() {
           </div>
         </div>
 
-        {/* El logo a todo el ancho, en su dorado. */}
-        <Image
-          src={LOGO.src}
-          width={LOGO.width}
-          height={LOGO.height}
-          alt=""
-          sizes="100vw"
-          className="mt-24 h-auto w-full"
-        />
-
-        <div className="sh-label flex flex-col gap-2 py-6 opacity-60 sm:flex-row sm:justify-between">
+        {/* Sin el logo a todo el ancho de la referencia: se quito por pedido de
+            Adrian (2026-11-16). Con el logo chico de arriba basta. */}
+        <div className="sh-label mt-24 flex flex-col gap-2 border-t border-white/15 py-6 opacity-60 sm:flex-row sm:justify-between">
           <p>© 2026 Nerowa Cases. All rights reserved.</p>
-          <p>Shipped from Vilnius</p>
+          <p>Shipped from Europe</p>
         </div>
       </div>
     </footer>

diff --git a/src/components/shop/shop-nav.tsx b/src/components/shop/shop-nav.tsx
@@ -69,7 +69,15 @@ export function ShopNav({ tone }: { tone: NavTone }) {
   const linkClass = "sh-roll-host sh-focus sh-label whitespace-nowrap";
 
   return (
-    <header className="sh-nav fixed inset-x-0 top-0 z-40" style={{ color: ink }}>
+    /*
+      `pointer-events-none` en la cabecera entera, y se encienden solo los
+      enlaces y el panel abierto. La cabecera es fija y CONTIENE el panel de
+      "Shop", que cerrado es invisible pero sigue ocupando su alto: sin esto, la
+      cabecera medía ~350 px y se comía los toques de esa franja de pantalla en
+      toda la pagina. Asi fallaban, "a veces si y a veces no", las preguntas
+      frecuentes en el telefono: dependia de en que altura quedaban al tocar.
+    */
+    <header className="sh-nav pointer-events-none fixed inset-x-0 top-0 z-40" style={{ color: ink }}>
       {/* El papel del panel, detras de la barra, para que la barra y el panel se
           lean como una sola pieza cuando esta abierto. */}
       <div
@@ -83,7 +91,7 @@ export function ShopNav({ tone }: { tone: NavTone }) {
         <a
           href="#top"
           aria-label="Nerowa Cases, back to top"
-          className="sh-focus shrink-0 lg:absolute lg:left-1/2 lg:-translate-x-1/2"
+          className="sh-focus pointer-events-auto shrink-0 lg:absolute lg:left-1/2 lg:-translate-x-1/2"
         >
           <Image
             src={LOGO.src}
@@ -99,7 +107,7 @@ export function ShopNav({ tone }: { tone: NavTone }) {
           />
         </a>
 
-        <nav aria-label="Shop" className="ml-auto flex items-center gap-4 lg:order-first lg:ml-0 lg:gap-6">
+        <nav aria-label="Shop" className="pointer-events-auto ml-auto flex items-center gap-4 lg:order-first lg:ml-0 lg:gap-6">
           <button
             ref={shopButtonRef}
             type="button"
@@ -118,7 +126,7 @@ export function ShopNav({ tone }: { tone: NavTone }) {
           </a>
         </nav>
 
-        <div className="ml-4 flex items-center gap-4 lg:ml-auto lg:gap-6">
+        <div className="pointer-events-auto ml-4 flex items-center gap-4 lg:ml-auto lg:gap-6">
           <a href="#answers" className={`${linkClass} hidden sm:inline-flex`}>
             <Roll>Contact</Roll>
           </a>
@@ -141,7 +149,7 @@ export function ShopNav({ tone }: { tone: NavTone }) {
         id="sh-shop-panel"
         aria-hidden={!shopOpen}
         className={`relative bg-[var(--sh-paper)] text-[var(--sh-ink)] shadow-[0_24px_48px_-32px_rgb(0_0_0/0.6)] transition-[opacity,transform] duration-300 ease-out ${
-          shopOpen ? "opacity-100" : "pointer-events-none -translate-y-2 opacity-0"
+          shopOpen ? "pointer-events-auto opacity-100" : "pointer-events-none -translate-y-2 opacity-0"
         }`}
       >
         <ul className="sh-noscroll flex gap-2 overflow-x-auto px-4 pb-4 pt-2 lg:px-5">

diff --git a/src/components/shop/colour-slider.tsx b/src/components/shop/colour-slider.tsx
@@ -118,9 +118,17 @@ export function ColourSlider() {
           </div>
         </div>
 
-        <div className="mt-8 flex flex-wrap items-center justify-between gap-x-6 gap-y-4">
+        {/*
+          Encima de las miniaturas, en una fila: las vistas y el paso entre
+          colores. En escritorio las vistas van CENTRADAS sobre las miniaturas
+          (pedido de Adrian: a la izquierda se perdian) y el paso a la derecha;
+          en telefono, vistas a la izquierda y paso a la derecha.
+        */}
+        <div className="mt-8 flex items-center justify-between gap-4 lg:grid lg:grid-cols-[1fr_auto_1fr]">
+          <span aria-hidden className="hidden lg:block" />
+
           {/* Las vistas del estuche. */}
-          <div className="flex gap-1" role="radiogroup" aria-label="Case view">
+          <div className="flex border border-white/25 p-0.5" role="radiogroup" aria-label="Case view">
             {VIEWS.map((option) => (
               <button
                 key={option.id}
@@ -128,8 +136,8 @@ export function ColourSlider() {
                 role="radio"
                 aria-checked={view === option.id}
                 onClick={() => setView(option.id)}
-                className={`sh-focus sh-label px-3 py-2 transition-colors ${
-                  view === option.id ? "bg-[var(--sh-snow)] text-[var(--sh-ink)]" : "bg-white/10 hover:bg-white/20"
+                className={`sh-focus sh-label min-w-[76px] px-4 py-2.5 transition-colors ${
+                  view === option.id ? "bg-[var(--sh-snow)] text-[var(--sh-ink)]" : "hover:bg-white/15"
                 }`}
               >
                 {option.label}
@@ -137,14 +145,14 @@ export function ColourSlider() {
             ))}
           </div>
 
-          <div className="flex items-center gap-4">
-            <button type="button" onClick={() => step(-1)} className="sh-focus sh-label opacity-80 hover:opacity-100">
+          <div className="flex items-center gap-4 lg:justify-self-end">
+            <button type="button" onClick={() => step(-1)} className="sh-focus sh-label -m-2 p-2 opacity-80 hover:opacity-100">
               Prev
             </button>
             <span className="sh-label t-figures opacity-70">
               {String(index + 1).padStart(2, "0")} / {COLORS.length}
             </span>
-            <button type="button" onClick={() => step(1)} className="sh-focus sh-label opacity-80 hover:opacity-100">
+            <button type="button" onClick={() => step(1)} className="sh-focus sh-label -m-2 p-2 opacity-80 hover:opacity-100">
               Next
             </button>
           </div>

diff --git a/src/components/shop/numbers.tsx b/src/components/shop/numbers.tsx
@@ -73,14 +73,38 @@ export function Numbers() {
           role="img"
           aria-label={`Top view of the case: ${LENGTH_LABEL} long; ${WIDTH_MARKS.map((m) => `${m.label} at the ${m.name}`).join(", ")}.`}
         >
+          <defs>
+            {/* Brillo de un borde al otro: la tapa es curva, y en plano sin
+                esto el case parecia una mancha recortada. */}
+            <linearGradient id="sh-case-sheen" x1="0" x2="0" y1="0" y2="1">
+              <stop offset="0" stopColor="#fff" stopOpacity="0.28" />
+              <stop offset="0.45" stopColor="#fff" stopOpacity="0.04" />
+              <stop offset="1" stopColor="#000" stopOpacity="0.28" />
+            </linearGradient>
+          </defs>
+
+          <path d={CASE_OUTLINE.path} fill={color.hex} className="transition-[fill] duration-500" />
+          <path d={CASE_OUTLINE.path} fill="url(#sh-case-sheen)" />
           <path
             d={CASE_OUTLINE.path}
-            fill={color.hex}
+            fill="none"
             stroke="var(--sh-ink)"
-            strokeWidth={1.2}
+            strokeOpacity={0.55}
+            strokeWidth={1}
+            strokeLinejoin="round"
             vectorEffect="non-scaling-stroke"
-            className="transition-[fill] duration-500"
           />
+
+          {/* Las bisagras en el borde recto y los cierres en el curvo, donde
+              estan en el `.glb`. */}
+          <g fill="#121212">
+            {CASE_OUTLINE.hinges.map((x) => (
+              <rect key={`h${x}`} x={x - 12} y={edgesAt(x).top - 3.5} width={24} height={4} rx={1} />
+            ))}
+            {CASE_OUTLINE.latches.map((x) => (
+              <rect key={`l${x}`} x={x - 10} y={edgesAt(x).bottom - 1} width={20} height={6} rx={1.5} />
+            ))}
+          </g>
 
           {/* Cota del largo, por encima. */}
           <g stroke="var(--sh-ink)" strokeWidth={1} vectorEffect="non-scaling-stroke">

diff --git a/src/lib/store/catalog.ts b/src/lib/store/catalog.ts
@@ -15,6 +15,8 @@
       a ojo, hasta que haya foto de la muestra.
     - Brown: la foto de la carta lo ensena naranja tostado, no marron. Se usa
       tal cual, porque es lo que dice la carta; si no es asi, se corrige aqui.
+    - Midnight Blue: la foto sale casi negra; el valor se calculo conservando
+      su tono. Ver la nota en su linea.
 
   La disponibilidad sigue sin datos: los catorce van como disponibles.
 
@@ -41,7 +43,10 @@ export const COLORS: CaseColor[] = [
   { id: "yellow", name: "Yellow", hex: "#f4c50d", availability: "available" },
   { id: "turquoise", name: "Turquoise", hex: "#53c4f3", availability: "available" },
   { id: "teal", name: "Teal", hex: "#2a9d9a", availability: "available" },
-  { id: "midnight-blue", name: "Midnight Blue", hex: "#10141e", availability: "available" },
+  /* Calculado: la foto de la carta sale casi negra por la sombra del tejido.
+     Se conserva su tono (223 grados, azul) con algo mas de saturacion y luz
+     para que se lea azul y no negro. Provisional hasta la foto del case. */
+  { id: "midnight-blue", name: "Midnight Blue", hex: "#16213b", availability: "available" },
   /* Estimado: muestra pendiente en la carta. */
   { id: "pink", name: "Pink", hex: "#e597b8", availability: "available" },
   { id: "red", name: "Red", hex: "#6d0101", availability: "available" },

diff --git a/src/lib/store/specs.ts b/src/lib/store/specs.ts
@@ -21,7 +21,7 @@ export interface Spec {
    en milimetros desde el centro, con la punta ancha hacia +. Salen del contorno
    del `.glb`: donde el ancho real coincide con la medida. */
 export const WIDTH_MARKS = [
-  { at: -300, label: "5.6 cm", name: "tip" },
+  { at: -335, label: "5.6 cm", name: "tip" },
   { at: -127, label: "4.6 cm", name: "middle" },
   { at: 360, label: "10.12 cm", name: "wide end" },
 ] as const;

diff --git a/src/lib/shop/content.ts b/src/lib/shop/content.ts
@@ -25,7 +25,7 @@ export function availabilityLong(color: CaseColor): string {
   if (color.availability === "sold-out")
     return "Next batch in two to three weeks";
   if (color.availability === "low") return "Last few from this batch";
-  return "Ships from Vilnius in days";
+  return "Ships from Europe";
 }
 
 /* La lista de "Built for two bows". Solo lo que ya se sabe del estuche. */

diff --git a/progreso.md b/progreso.md
@@ -2859,6 +2859,31 @@ porque las abiertas ensenan el interior.
 
 ---
 
+### Sesion 12, sexta vuelta — preguntas, plano, envio y Midnight Blue
+
+- **Las preguntas frecuentes fallaban "a veces" en el telefono.** Causa: la
+  cabecera fija contiene el panel de "Shop", que cerrado es invisible pero
+  ocupa su alto; la cabecera medía ~350 px y se comia los toques de esa franja
+  en TODA la pagina. Ahora la cabecera es `pointer-events-none` y solo reciben
+  toques los enlaces y el panel abierto (`shop-nav.tsx`). Comprobado: 6 de 6
+  preguntas abren al primer toque en iPhone y escritorio.
+- **Preguntas rediseñadas:** cada renglon se pinta de un color de case al azar
+  (escritorio al pasar el raton, telefono al abrir) y la letra se elige por
+  contraste medido. La respuesta va a la derecha.
+- **Plano de "The numbers" rehecho:** el contorno se saca pintando la cascara
+  vista desde arriba en una cuadricula de 0.25 mm (antes, de vertices sueltos:
+  bordes ondulados y puntas cortadas). Lleva brillo y las bisagras y cierres en
+  su sitio real del `.glb`.
+- **Fuera el logo gigante del pie.**
+- **"Ships from Europe"**, sin "in days": hay lotes que tardan semanas.
+- **Closed / Open** va centrado encima de las miniaturas en escritorio.
+- **Midnight Blue = #16213b**, calculado: la foto de la carta sale casi negra;
+  se conservo su tono (223 grados) con mas saturacion y luz. Provisional hasta
+  la foto del case. Sus dos fotos de producto se volvieron a sacar
+  (`node scripts/miniaturas-case.cjs <url> midnight-blue`).
+
+---
+
 ## Lo que queda por confirmar
 
 **Con esta vuelta el panel deberia cargar** aunque la consulta siga tropezando,
